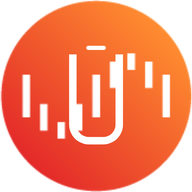
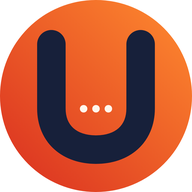
v1.3.29: 同步主仓发布(compose-api + 安装脚本 pin + 文档)

diff --git a/README.md b/README.md
@@ -191,9 +191,9 @@ Prerequisite: the **compose.manager** plugin installed from Community Applicatio
 # Run as root on the unRAID host
 mkdir -p /tmp/um-install && cd /tmp/um-install
 curl -fsSL -o install-compose-api.sh \
-  https://raw.githubusercontent.com/bear0328/unraid-mobile-compose/v1.3.28/compose-api/install-compose-api.sh
+  https://raw.githubusercontent.com/bear0328/unraid-mobile-compose/v1.3.29/compose-api/install-compose-api.sh
 curl -fsSL -o api.php \
-  https://raw.githubusercontent.com/bear0328/unraid-mobile-compose/v1.3.28/compose-api/api.php
+  https://raw.githubusercontent.com/bear0328/unraid-mobile-compose/v1.3.29/compose-api/api.php
 bash install-compose-api.sh
 ```
 
@@ -228,6 +228,10 @@ temperature (once Pro is activated) are ready.
 ## Changelog
 
 Full history in [CHANGELOG.md](CHANGELOG.md).
+
+### v1.3.29 (2026-11-01)
+
+- Replaces the app icon across all clients with an orange circular background, a bold dark U, and array status lights, improving small-size recognition and distinction from Unraid. Native changes ship in TestFlight 2.0.0 (82)
 
 ### v1.3.28 (2026-10-31)
 

diff --git a/README_CN.md b/README_CN.md
@@ -174,9 +174,9 @@ Web 与原生端支持 Community Applications 搜索、分类、详情、HTTPS `
 # 在 unRAID 宿主上以 root 执行
 mkdir -p /tmp/um-install && cd /tmp/um-install
 curl -fsSL -o install-compose-api.sh \
-  https://raw.githubusercontent.com/bear0328/unraid-mobile-compose/v1.3.28/compose-api/install-compose-api.sh
+  https://raw.githubusercontent.com/bear0328/unraid-mobile-compose/v1.3.29/compose-api/install-compose-api.sh
 curl -fsSL -o api.php \
-  https://raw.githubusercontent.com/bear0328/unraid-mobile-compose/v1.3.28/compose-api/api.php
+  https://raw.githubusercontent.com/bear0328/unraid-mobile-compose/v1.3.29/compose-api/api.php
 bash install-compose-api.sh
 ```
 
@@ -208,6 +208,10 @@ bash install-compose-api.sh
 ## 更新日志
 
 完整历史见 [CHANGELOG_CN.md](CHANGELOG_CN.md)。
+
+### v1.3.29(2026-11-01)
+
+- 全端 App 图标改为橙色圆形底、深色粗 U 与阵列状态灯，移除 Unraid 原版条形标志，提高小尺寸辨识度与品牌区分度。原生版本为 TestFlight 2.0.0(82)
 
 ### v1.3.28(2026-10-31)
 

diff --git a/CHANGELOG.md b/CHANGELOG.md
@@ -2,6 +2,12 @@
 
 All notable changes to this project are documented here. Format follows [Keep a Changelog](https://keepachangelog.com/).
 
+## [1.3.29] - 2026-11-01
+
+### Changed
+
+- Replaces the app icon across all clients with an orange circular background, a bold dark U, and array status lights. The original Unraid-style bars are removed for better small-size recognition and visual distinction. Native changes ship in TestFlight 2.0.0 (82)
+
 ## [1.3.28] - 2026-10-31
 
 ### Added

diff --git a/CHANGELOG_CN.md b/CHANGELOG_CN.md
@@ -2,6 +2,12 @@
 
 本文件记录项目的所有重要变更,格式参考 [Keep a Changelog](https://keepachangelog.com/)。
 
+## [1.3.29] - 2026-11-01
+
+### 变更
+
+- 全端 App 图标改为橙色圆形底、深色粗 U 与阵列状态灯，移除与 Unraid 原版相同的条形标志，提高小尺寸辨识度与品牌区分度。原生版本为 TestFlight 2.0.0(82)
+
 ## [1.3.28] - 2026-10-31
 
 ### 新增
